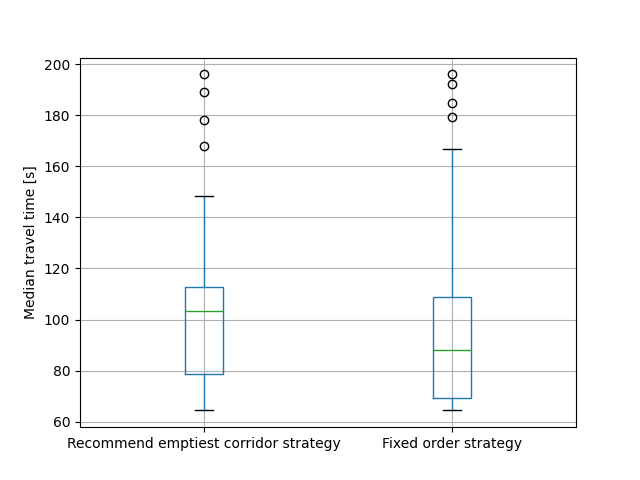
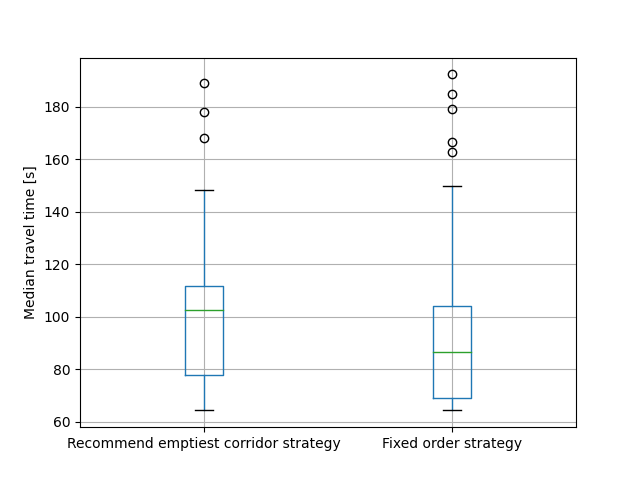
remove .0

diff --git a/analysis/uq/simulation_studies/guiding_crowds_forward_propagation/step_3_analyze_results.py b/analysis/uq/simulation_studies/guiding_crowds_forward_propagation/step_3_analyze_results.py
@@ -413,6 +413,7 @@ def compare_random_densitiies(dd,  travel_time, value="Median",):
     dd = d_med.drop(columns=["Corridor2", "Corridor3"])
     dd.reset_index(0, inplace=True)
     dd = dd.pivot(columns="Controller")
+    dd = dd.drop(0.0)
     dd.columns = dd.columns.droplevel(0)
     dd.rename(columns=controller__,inplace=True)
     dd.boxplot(grid=False)
@@ -437,6 +438,7 @@ def compare_random_densitiies(dd,  travel_time, value="Median",):
     times = travel_time.groupby(by=["Controller", reaction_prob_key_short]).median()
     times.reset_index(0, inplace=True)
     times = times.pivot(columns="Controller")
+    times = times.drop(0.0)
     times.columns = times.columns.droplevel(0)
     times.rename(columns=controller__, inplace=True)
     times.boxplot()
